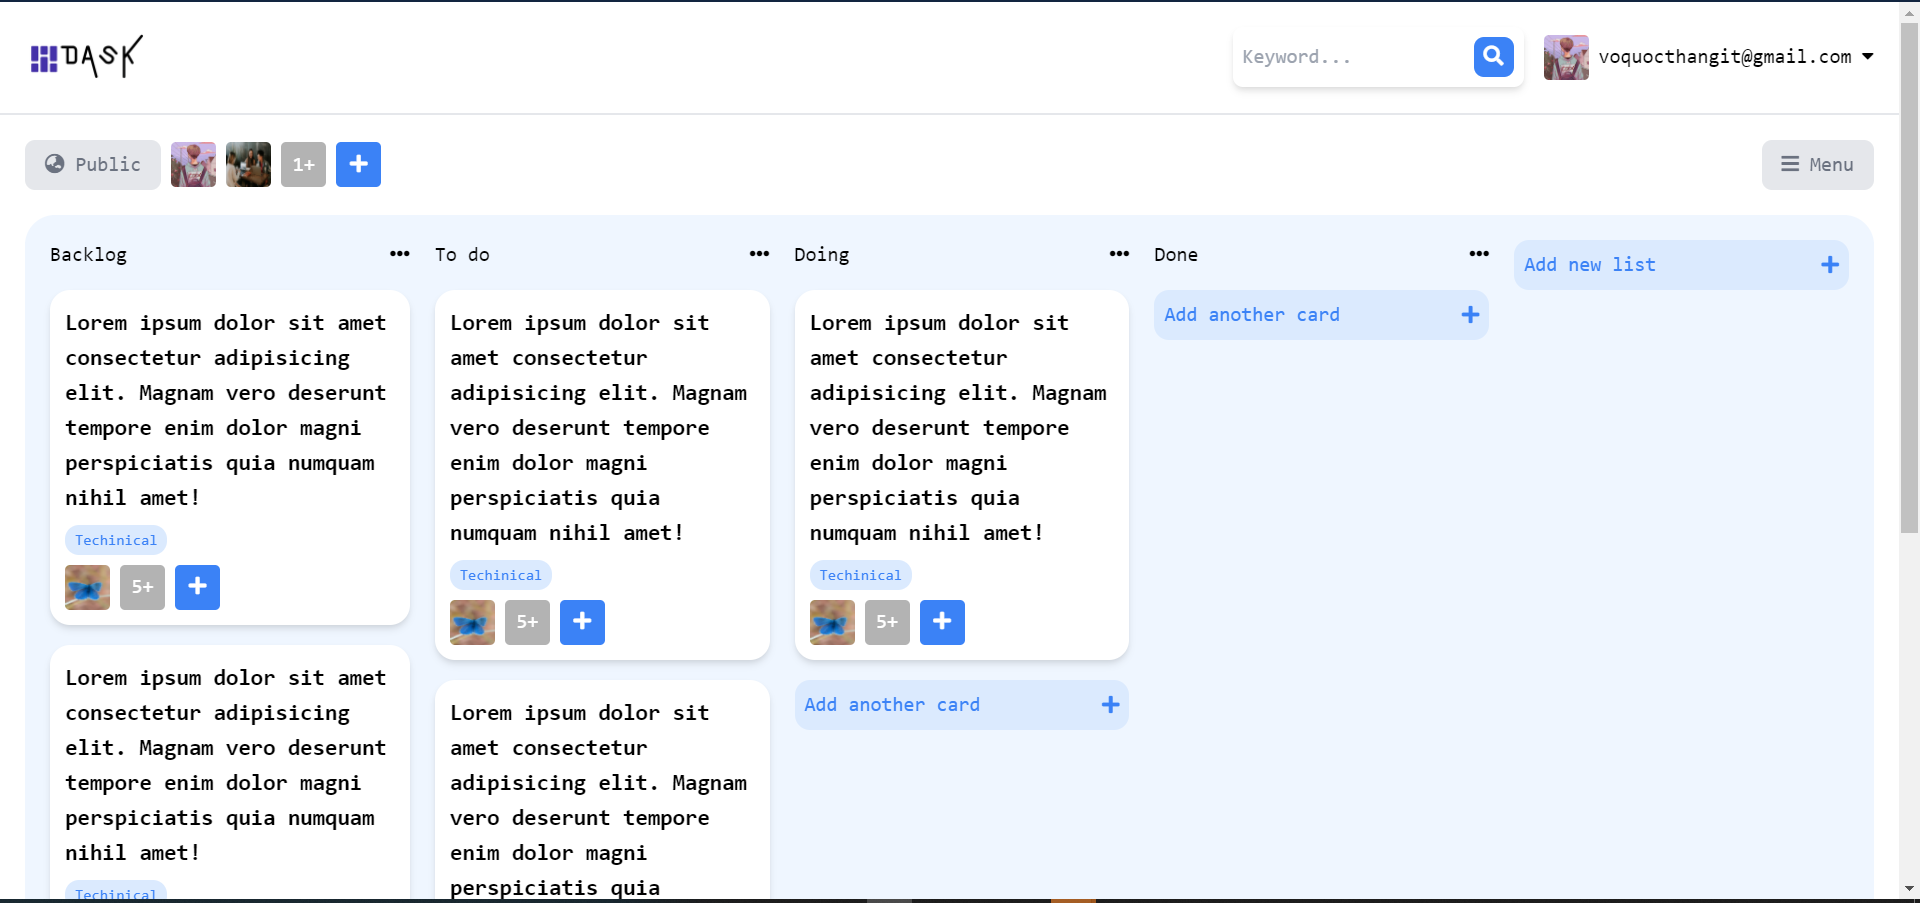
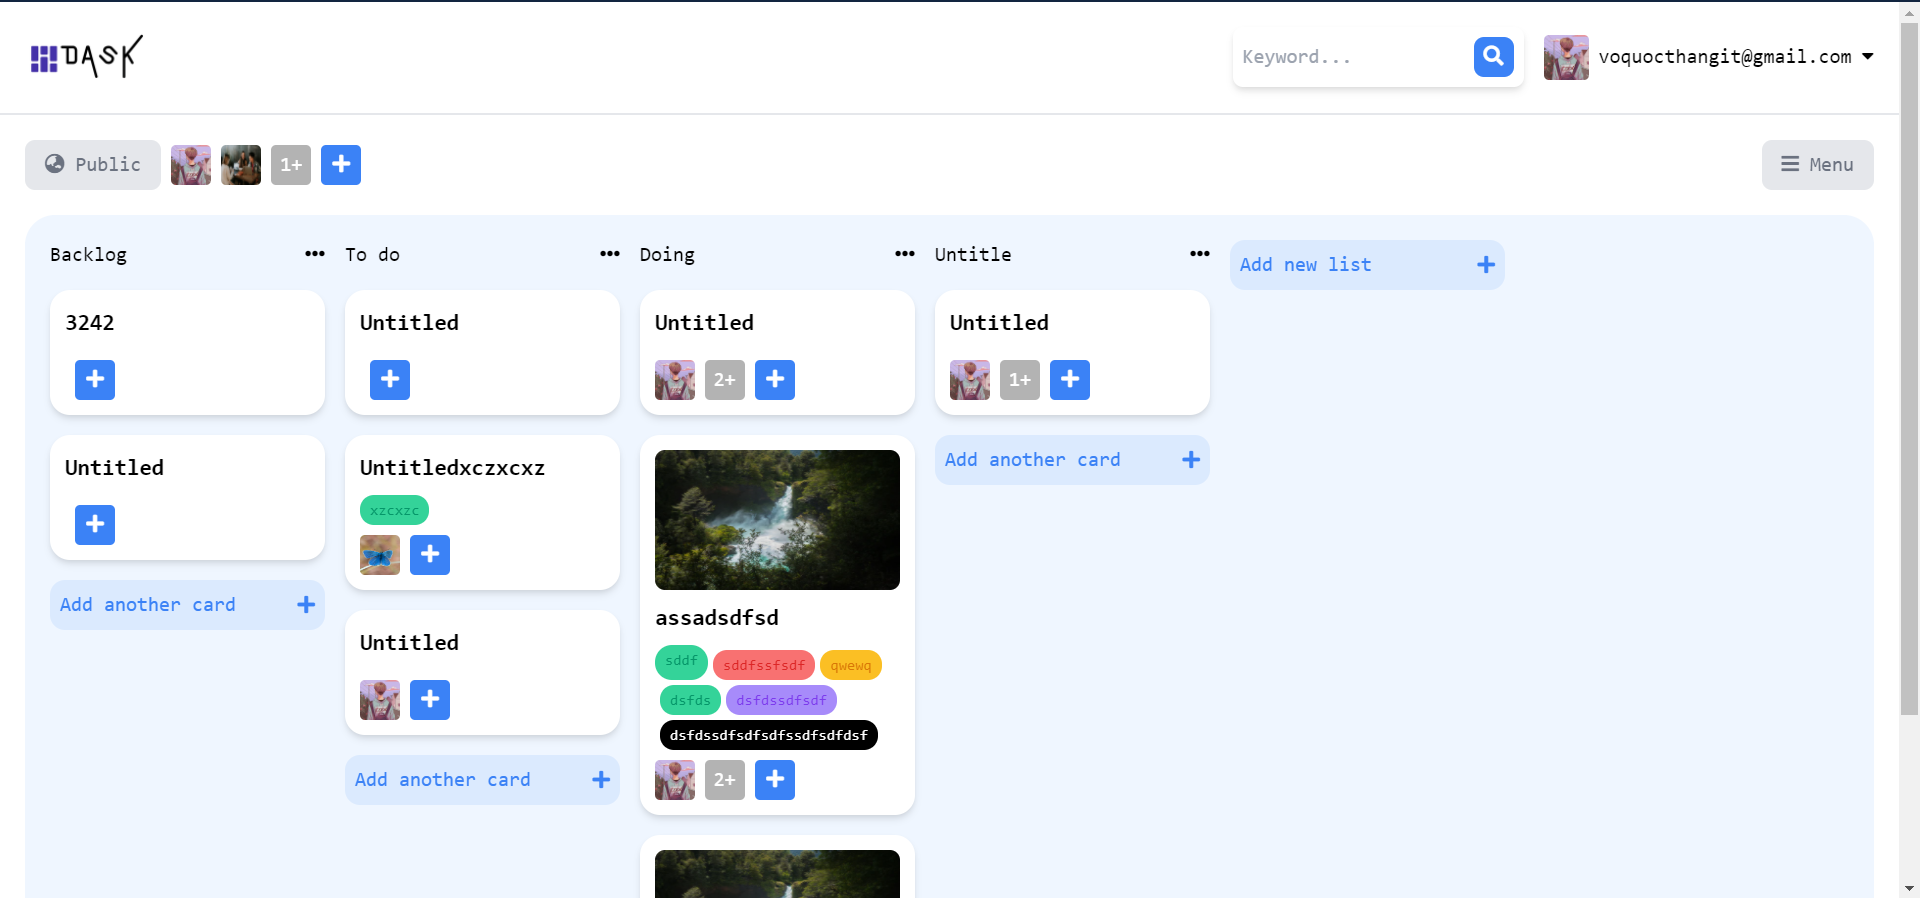
drag and drop card

diff --git a/frontend/src/components/TaskList/TaskList.tsx b/frontend/src/components/TaskList/TaskList.tsx
@@ -33,10 +33,25 @@ const Tag = ({ tag }: { tag: Label }) => {
 const TaskCard = ({ task }: { task: Task }) => {
   const [openDialog, closeDialog] = useDialog();
   const assignmentRef = useRef(null);
+
+  const handleDragStart = (e: any, id: string) => {
+    e.currentTarget.style.backgroundColor = "#E2E8F6";
+    e.currentTarget.style.border = "dashed 2px #2F80ED";
+
+    console.log("dragstart", id);
+    e.dataTransfer.setData("text/plain", id);
+  };
+
   return (
     <>
       <div
         className="space-y-2 bg-white p-3 rounded-2xl shadow-md w-full"
+        draggable
+        onDragEnd={(e) => {
+          e.currentTarget.style.backgroundColor = "#fff";
+          e.currentTarget.style.border = "none";
+        }}
+        onDragStart={(e) => handleDragStart(e, task._id as string)}
         onClick={(e) => {
           e.stopPropagation();
           openDialog({ children: <TaskDetails task={task}></TaskDetails> });
@@ -122,9 +137,36 @@ function TaskList({ board, list }: { board: Board; list: List }) {
     if (!result.status) setRename(false);
     setLoading(true);
   };
+
+  const handleDrop = async (e: any, endList: List) => {
+    const id = e.dataTransfer.getData("text/plain");
+    const sourceList = (board.lists as List[]).find(
+      (list) => list.tasks.findIndex((task) => task._id === id) >= 0
+    );
+    const targetTask = sourceList?.tasks.find((task) => task._id === id);
+    if (!targetTask) return;
+    if (sourceList?.tasks)
+      sourceList.tasks = sourceList?.tasks.filter(
+        (task) => task._id !== targetTask?._id
+      );
+    endList.tasks.push(targetTask as Task);
+    board.lists = (board.lists as List[]).map((item) => {
+      if (item._id === sourceList?._id) return sourceList;
+      else if (item._id === endList._id) return endList;
+      else return item;
+    }) as List[];
+    await saveChangesToBoard({ ...board });
+  };
   return (
-    <div className="h-full space-y-4" style={{ width: "220px" }}>
-      <div className="flex justify-between items-center">
+    <div
+      className="h-full space-y-4"
+      onDragOver={(e) => {
+        e.preventDefault();
+      }}
+      onDrop={(e) => handleDrop(e, list)}
+      style={{ width: "220px" }}
+    >
+      <div className="flex flex-wrap justify-between items-center">
         {rename ? (
           <div className="flex space-x-1 items-center">
             <input
@@ -132,16 +174,15 @@ function TaskList({ board, list }: { board: Board; list: List }) {
               placeholder="Type here"
               defaultValue={list.title}
               ref={titleRef}
+              onKeyUp={(e) => {
+                if (e.key === "Enter" || e.keyCode === 13) {
+                  handleRename();
+                }
+              }}
             ></input>
-            <button
-              className="rounded-full bg-green-600 text-white w-6 h-6 focus:outline-none"
-              onClick={handleRename}
-            >
-              <i className="fas fa-check text-xs"></i>
-            </button>
           </div>
         ) : (
-          <h1>{list.title}</h1>
+          <h1 className="break-all">{list.title}</h1>
         )}
         <div>
           <i className="fas fa-ellipsis-h cursor-pointer" ref={optionsRef}></i>
@@ -154,7 +195,7 @@ function TaskList({ board, list }: { board: Board; list: List }) {
           ></CustomMenu>
         </div>
       </div>
-      {list.tasks.map((task) => (
+      {list?.tasks?.map((task) => (
         <TaskCard key={task._id} task={task}></TaskCard>
       ))}
       <button

diff --git a/frontend/src/container/TaskDetails/TaskDetails.tsx b/frontend/src/container/TaskDetails/TaskDetails.tsx
@@ -39,8 +39,11 @@ const Comment = ({ comment }: { comment: CommentType }) => {
     );
   };
   return (
-    <div className="space-y-2 border-t-2 first:border-0 py-5 border-gray-200">
-      <div className="flex justify-between items-top">
+    <div
+      v-for="item in items"
+      className="space-y-2 border-gray-200  border-t-2 first:border-t-0 py-5"
+    >
+      <div className="flex flex-col space-y-1 md:space-y-0  md:flex-row justify-between">
         <div className="flex items-center space-x-2">
           <img
             className="w-9 h-9 rounded-lg"
@@ -126,7 +129,7 @@ const Comments = ({ comments }: { comments: CommentType[] }) => {
           </button>
         </div>
       </form>
-      <div className="first:border-0">
+      <div>
         {comments.map((comment) => (
           <Comment key={comment._id} comment={comment}></Comment>
         ))}
@@ -241,10 +244,15 @@ function TaskDetails({ task }: { task: Task }) {
                 </div>
               </div>
             ) : (
-              <div className="flex space-x-3 text-xs items-center">
-                <h1 className="font-bold text-xl">{currentTask.title}</h1>
+              <div className="flex flex-wrap">
+                <h1
+                  className="font-bold text-xl word-breaks mr-2"
+                  style={{ wordBreak: "break-word" }}
+                >
+                  {currentTask.title}
+                </h1>
                 <button
-                  className="ring-1 ring-gray-300  hover:bg-gray-100 focus:outline-none text-gray-500 bg-white py-1 px-3 rounded-lg"
+                  className="ring-1 ring-gray-300  text-xs hover:bg-gray-100 focus:outline-none text-gray-500 bg-white py-1 px-3 rounded-lg"
                   onClick={() => setEditTitle((prevState) => !prevState)}
                 >
                   <i className="fas fa-edit mr-2"></i>Edit
@@ -290,7 +298,9 @@ function TaskDetails({ task }: { task: Task }) {
                   </div>
                 </div>
               ) : (
-                <p className="text-sm m-0">{currentTask.description}</p>
+                <p className="text-sm m-0 break-words">
+                  {currentTask.description}
+                </p>
               )}
             </div>
             <div className="space-y-3">

diff --git a/frontend/tailwind.config.js b/frontend/tailwind.config.js
@@ -796,7 +796,7 @@ module.exports = {
     ],
     borderRadius: ["responsive"],
     borderStyle: ["responsive"],
-    borderWidth: ["responsive"],
+    borderWidth: ["responsive", "first"],
     boxShadow: ["responsive", "group-hover", "focus-within", "hover", "focus"],
     boxSizing: ["responsive"],
     clear: ["responsive"],
